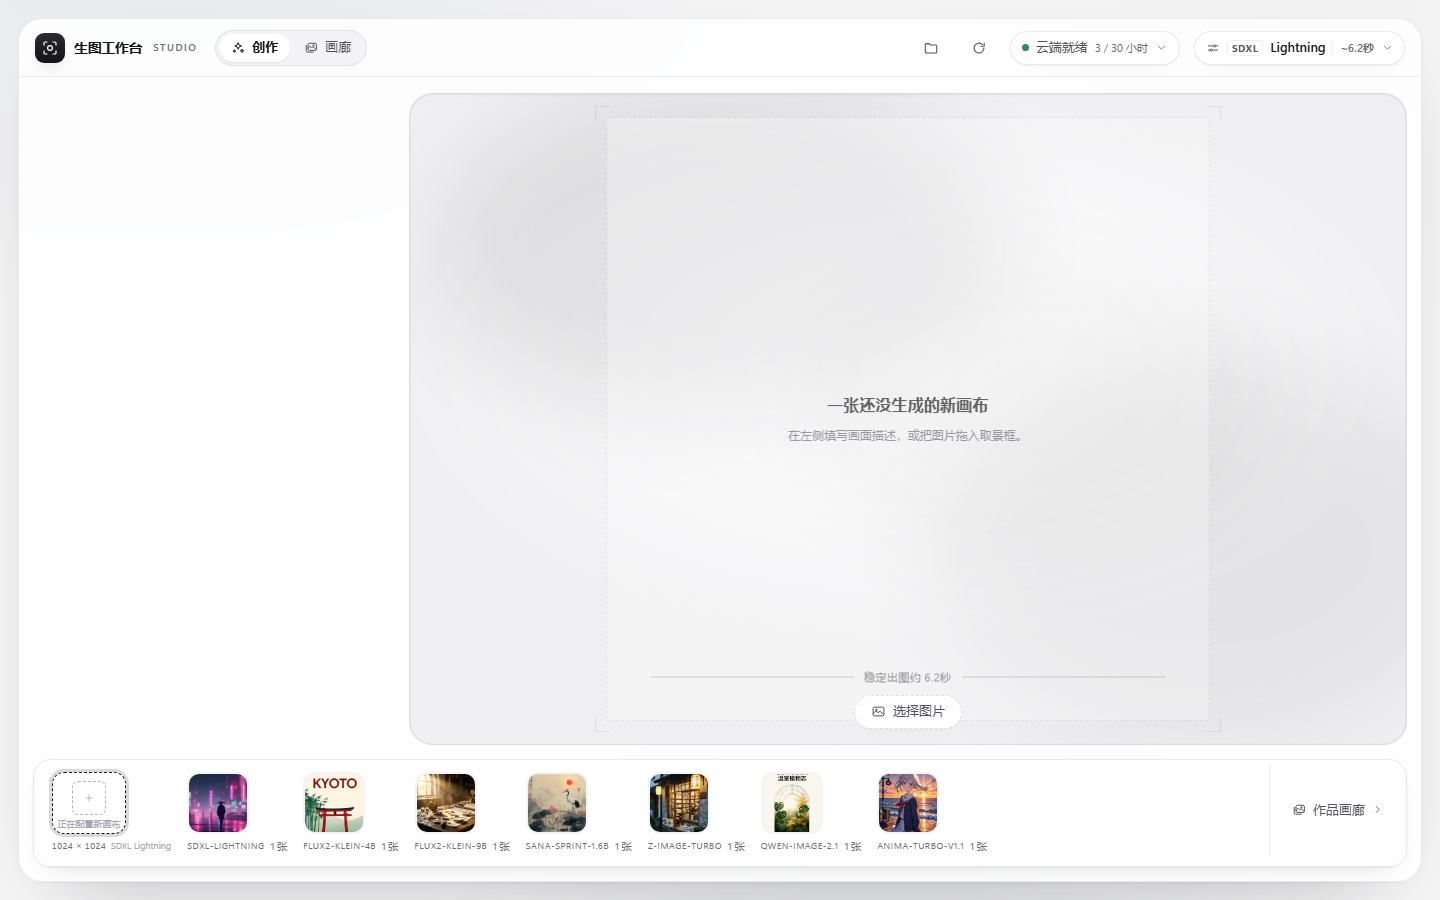
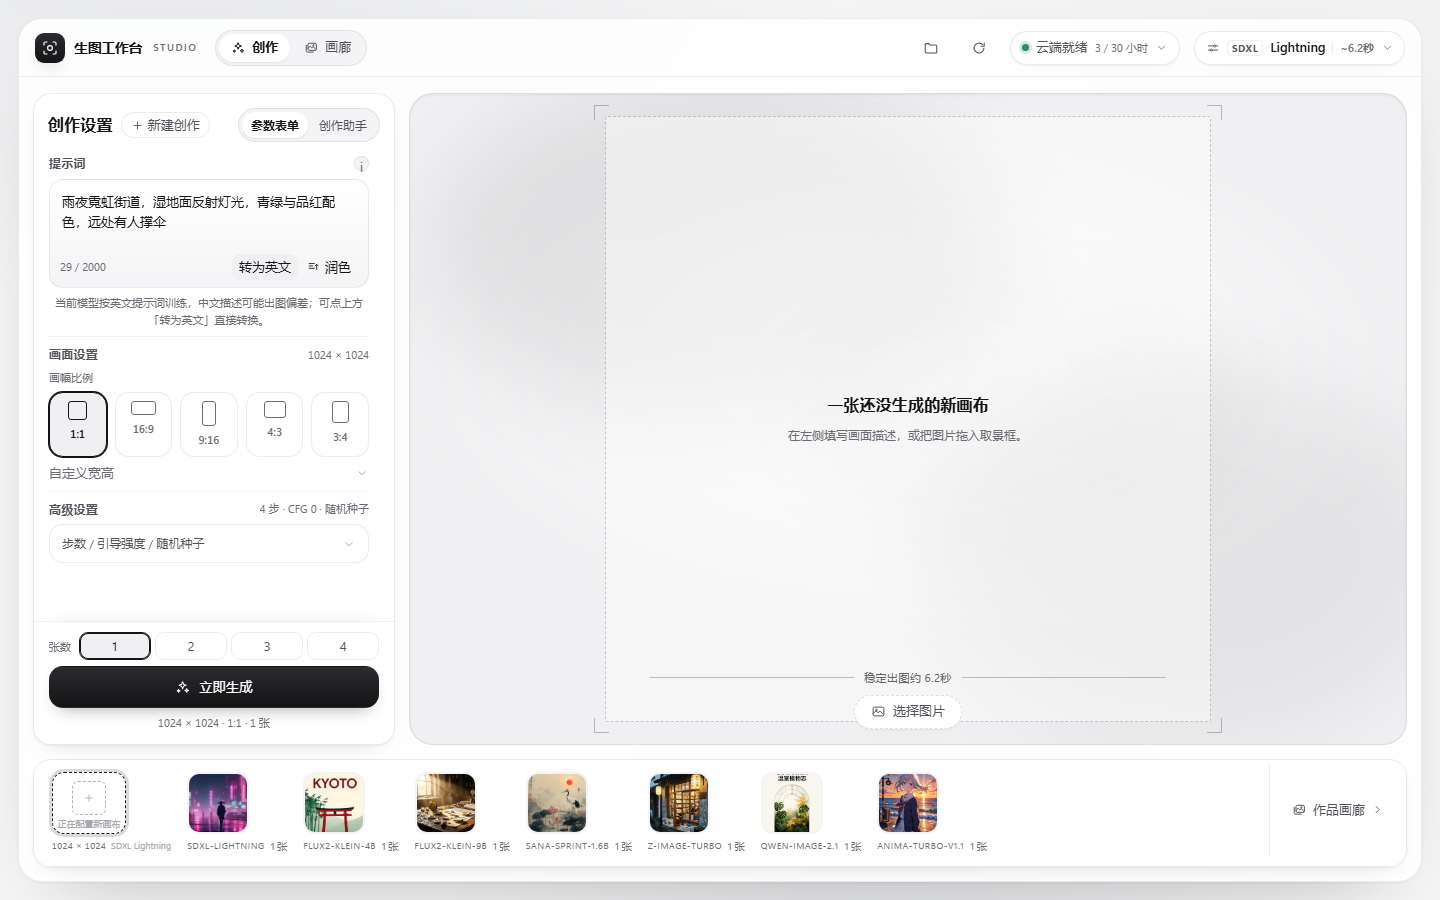
docs(readme): 优化排版并修复工作台预览截图左侧表单缺失

diff --git a/README.md b/README.md
@@ -11,7 +11,8 @@
 [![DeepSeek Harness](https://img.shields.io/badge/DSH-Plugin-0066FF?style=flat-square)](https://github.com/deepseek-ai/DeepSeek-Harness)
 [![License: MIT](https://img.shields.io/badge/License-MIT-black?style=flat-square)](LICENSE)
 [![GitHub Stars](https://img.shields.io/github/stars/nanxfu/dsh-our-imagen?style=flat-square)](https://github.com/nanxfu/dsh-our-imagen)
- <a href="https://linux.do/"><img src="https://img.shields.io/badge/LINUX%20DO-社区友链-555?style=flat-square" alt="LINUX DO" /></a>
+<a href="https://linux.do/"><img src="https://img.shields.io/badge/LINUX%20DO-社区友链-555?style=flat-square" alt="LINUX DO" /></a>
+
 > **当前处于 Preview 阶段**：默认内置 Kaggle 免费双卡 GPU 驱动，Colab 驱动已接入（大显存模型仅 Colab 可用），本地 GPU 与自建 Worker 支持在规划中。
 
 [快速上手](#三步上手) · [算力后端](#算力后端支持) · [核心功能](#核心功能) · [模型示例](#模型示例) · [常见问答](#常见问答) · [开发与测试](#开发与测试) · [English](README.en.md)
@@ -43,60 +44,35 @@
 
 ## 核心功能
 
-<table>
-<tr>
-<td width="48%">
-
 ### 1. 独立工作台
-* **内置 7 款现代开源模型**：极速与通用（`SDXL Lightning`、`SANA-Sprint 1.6B`、`Z-Image Turbo`）、参考与扩图（`FLUX.2 Klein 4B`、`FLUX.2 Klein 9B`、`Qwen-Image 2.1`）、二次元专项（`Anima Turbo v1.1`）；名称、架构与定位以 [`models/*.json`](models/) 为准。
-* **双算力来源**：`SDXL Lightning`、`SANA-Sprint 1.6B`、`FLUX.2 Klein 4B`、`Anima Turbo v1.1` 可在 Kaggle 免费 T4 与 Colab 运行；`Z-Image Turbo`、`Qwen-Image 2.1`、`FLUX.2 Klein 9B` 显存需求更高，仅 Colab 可用（模型卡标「仅 Colab」并置灰）。
-* **干净的参数面板**：提示词、画幅比例、分辨率、步数、引导强度和随机种子集中在一个面板里，生成张数（1~4）常驻页脚。
-* **只显示生效参数**：模型不消费负向词或默认引导强度为 0 时，排除项自动隐藏且不提交；参考图、局部重绘与扩图入口只在当前模型真正支持时出现。
-* **快捷词缀**：光影、材质、构图、氛围四类常用英文短语一键追加（界面显示中文标签），支持收起/展开。
-* **舞台图片工具**：选中作品后点下方的「局部涂抹 / 整图重绘」就地编辑，画布与提交栏内置修改描述、重绘强度与模型切换；画廊与大图的「以此图重绘」一步直达局部涂抹。高清放大（Real-ESRGAN ×2）与扩图（`FLUX.2 Klein 4B` + Outpaint LoRA）已接入，产物作为子版本归档。
-* **作品条与版本树**：底部作品条按版本树折叠，`⎇ N` 角标展开版本派生面板，涂抹 / 整图重绘产出的图自动成为 v2/v3 子版本；每张作品的未提交编辑草稿有圆点标记，切换作品不丢笔迹。支持一键带回全部参数或生成变体；画廊按日期归档，支持搜索、收藏、批量选择与单张删除。
 
-</td>
-<td width="52%">
+* **7 款模型与双算力来源**：内置 7 款现代开源模型（详见[模型列表](#常见问答)与 [`models/*.json`](models/)），其中 4 款可在 Kaggle 免费 T4 与 Colab 运行，`Z-Image Turbo`、`Qwen-Image 2.1`、`FLUX.2 Klein 9B` 因显存需求更高仅 Colab 可用。
+* **自适应参数面板**：提示词、画幅比例、分辨率、步数、引导强度与张数集中在一个面板；仅显示当前模型真正生效的参数与参考图入口，支持中译英及光影、材质、构图、氛围快捷词缀。
+* **舞台就地二创**：选中作品后可在舞台下方直接发起局部涂抹、整图重绘、高清放大（Real-ESRGAN ×2）或扩图，产物自动归档为子版本。
+* **版本树与作品画廊**：底部作品条按版本树折叠，保留各作品未提交编辑草稿；支持一键带回参数或生成变体，画廊按日期归档并支持搜索、收藏与批量管理。
 
 <div align="center">
-  <img src="docs/assets/studio-light.png" alt="生图工作台 独立界面" width="100%" />
+  <img src="docs/assets/studio-light.png" alt="生图工作台 独立界面" width="92%" />
   <p><sub>独立工作台：参数面板 + 实时画布 + 最近胶卷</sub></p>
 </div>
 
-</td>
-</tr>
-
-<tr>
-<td width="48%">
-
 ### 2. 对话生图与创作助手
-* **对话直接调用**：宿主自动挂载 `imagen_generate`、`imagen_batch`、`imagen_recipes`、`imagen_session`、`imagen_history` 等工具，在聊天窗口里直接说需求就能出图；一句话可以规划一组配图或分镜，配方库只提供可见的提示词模板，不做暗箱拼接。
+
+* **对话直接调用**：宿主自动挂载 `imagen_generate`、`imagen_batch`、`imagen_recipes`、`imagen_session`、`imagen_history` 等工具，在聊天窗口里直接说需求就能出图或规划一组分镜配图；配方库只提供可见提示词模板，不做暗箱拼接。
 * **先确认再执行**：内置助手会把自然语言翻译成英文提示词、推断比例并检查当前模型的参数限制，先给出确认卡片，点确定后再跑。
 * **模型适配提醒**：助手了解 7 款模型的提示词习惯与专长，如果当前模型不太适合你的描述，会给出提示。
 * **工作台联动**：确认卡可以一键带入参数面板继续精调；聊天里生成的图片也可以直接在工作台里打开做二次编辑。
 
-</td>
-<td width="52%">
-
 <div align="center">
-  <img src="docs/assets/chat-tool.png" alt="对话卡片与生图预览" width="100%" />
+  <img src="docs/assets/chat-tool.png" alt="对话卡片与生图预览" width="92%" />
   <p><sub>对话卡片：先给确认卡，点确定即出图</sub></p>
 </div>
 
-</td>
-</tr>
-
-<tr>
-<td width="48%">
-
 ### 3. 本地落盘与自动保活
+
 * **图片只存本地**：生成结果通过单次随机 Bearer Token 隧道直接写入本地 `imagen-output/`，不经过第三方公共图床。
 * **空闲自动关机**：云端 Kernel 空闲超过 30 分钟（可在设置中调整）自动关机，也可以在右上角随时手动关机，避免白白消耗额度。
 * **断线重连**：本地 `.imagen/session.json` 会记录当前会话状态，DSH 重启或刷新后会自动探活并接管旧实例，不会重复开机。
-
-</td>
-<td width="52%">
 
 ```text
 [ DSH 工作台 / 聊天窗口 ]
@@ -111,9 +87,6 @@
           └─────────────────────────────▶ (直接回传本地)
 ```
 
-</td>
-</tr>
-</table>
 ---
 
 ## 界面速览
@@ -148,27 +121,43 @@
 
 <table>
 <tr>
-<td width="33.3%">
+<td width="50%">
 <div align="center">
   <img src="docs/assets/showcase/sdxl-lightning-cyberpunk-street.webp" alt="SDXL Lightning 生成的雨夜霓虹街道" width="100%" />
-  <p><sub>SDXL Lightning · 雨夜霓虹街道 · 约 9.8 秒</sub></p>
+  <p><sub>SDXL Lightning · 雨夜霓虹街道 · Kaggle 2×T4 · 约 9.8 秒</sub></p>
 </div>
 </td>
-<td width="33.3%">
+<td width="50%">
+<div align="center">
+  <img src="docs/assets/showcase/flux2-klein-4b-kyoto-poster.webp" alt="FLUX.2 Klein 4B 生成的极简京都旅行海报" width="100%" />
+  <p><sub>FLUX.2 Klein 4B · 极简京都旅行海报 · Kaggle 2×T4 · 约 6.8 秒</sub></p>
+</div>
+</td>
+</tr>
+<tr>
+<td width="50%">
+<div align="center">
+  <img src="docs/assets/showcase/flux2-klein-9b-clockmaker-bench.webp" alt="FLUX.2 Klein 9B 生成的黄金时刻钟表匠工作台" width="100%" />
+  <p><sub>FLUX.2 Klein 9B · 黄金时刻钟表匠工作台 · Colab L4 · 113.1 秒</sub></p>
+</div>
+</td>
+<td width="50%">
 <div align="center">
   <img src="docs/assets/showcase/sana-sprint-1.6b-crane-pond.webp" alt="SANA-Sprint 1.6B 生成的红冠鹤与晨间荷塘" width="100%" />
   <p><sub>SANA-Sprint 1.6B · 红冠鹤与晨间荷塘 · Colab L4 · 4.07 秒</sub></p>
 </div>
 </td>
+</tr>
+</table>
+
+<table>
+<tr>
 <td width="33.3%">
 <div align="center">
   <img src="docs/assets/showcase/z-image-turbo-alley-bookstore.webp" alt="Z-Image Turbo 生成的雨巷旧书店" width="100%" />
   <p><sub>Z-Image Turbo · 雨巷旧书店 · Colab L4 · 29.19 秒</sub></p>
 </div>
 </td>
-</tr>
-
-<tr>
 <td width="33.3%">
 <div align="center">
   <img src="docs/assets/showcase/qwen-image-2.1-botanica-poster.webp" alt="Qwen-Image 2.1 生成的温室植物志海报" width="100%" />
@@ -177,29 +166,10 @@
 </td>
 <td width="33.3%">
 <div align="center">
-  <img src="docs/assets/showcase/flux2-klein-4b-kyoto-poster.webp" alt="FLUX.2 Klein 4B 生成的极简京都旅行海报" width="100%" />
-  <p><sub>FLUX.2 Klein 4B · 极简京都旅行海报 · Kaggle 2×T4 · 约 6.8 秒</sub></p>
-</div>
-</td>
-<td width="33.3%">
-<div align="center">
-  <img src="docs/assets/showcase/flux2-klein-9b-clockmaker-bench.webp" alt="FLUX.2 Klein 9B 生成的黄金时刻钟表匠工作台" width="100%" />
-  <p><sub>FLUX.2 Klein 9B · 黄金时刻钟表匠工作台 · Colab L4 · 113.1 秒</sub></p>
-</div>
-</td>
-</tr>
-</table>
-
-<table>
-<tr>
-<td width="33.3%"></td>
-<td width="33.3%">
-<div align="center">
   <img src="docs/assets/showcase/anima-turbo-v1.1-seaside-station.webp" alt="Anima Turbo v1.1 生成的黄昏海边站台少女" width="100%" />
   <p><sub>Anima Turbo v1.1 · 黄昏海边站台少女 · Colab L4 · 9.81 秒</sub></p>
 </div>
 </td>
-<td width="33.3%"></td>
 </tr>
 </table>
 

diff --git a/README.en.md b/README.en.md
@@ -41,60 +41,35 @@ Not every machine has a high-VRAM GPU, and setting up PyTorch, CUDA, and ComfyUI
 
 ## Features
 
-<table>
-<tr>
-<td width="48%">
-
 ### 1. Standalone Workbench
-* **7 Modern Open-Source Models**: fast and general (`SDXL Lightning`, `SANA-Sprint 1.6B`, `Z-Image Turbo`), reference and outpaint (`FLUX.2 Klein 4B`, `FLUX.2 Klein 9B`, `Qwen-Image 2.1`), and anime (`Anima Turbo v1.1`); names, architectures, and positioning come from [`models/*.json`](models/).
-* **Two Compute Sources**: `SDXL Lightning`, `SANA-Sprint 1.6B`, `FLUX.2 Klein 4B`, and `Anima Turbo v1.1` run on both Kaggle's free T4 quota and Colab. `Z-Image Turbo`, `Qwen-Image 2.1`, and `FLUX.2 Klein 9B` need more VRAM and are Colab-only (their model cards are marked "Colab only" and disabled on Kaggle).
-* **Focused Controls**: Prompt, aspect ratio, resolution, steps, CFG scale, and seed in one panel, with batch count (1–4) pinned in the footer.
-* **Effective Parameters Only**: Negative prompts are hidden and omitted when the selected model ignores them or defaults to CFG 0; reference images, local repaint, and outpaint entry points only appear when the current model really supports them.
-* **Quick Modifiers**: Collapsible one-click English tags for lighting, material, composition, and mood (with localized UI labels).
-* **Stage Image Tools**: With a work selected, hit **Local paint** or **Full repaint** below the stage to edit in place; the canvas and light submit bar include a change description, repaint strength, and model switch. "Repaint from this image" in the gallery/lightbox opens local paint in one step. Upscale (Real-ESRGAN ×2) and outpaint (`FLUX.2 Klein 4B` + Outpaint LoRA) are available and saved as child versions.
-* **Filmstrip & Version Tree**: The bottom filmstrip folds by version tree; the `⎇ N` badge opens the version panel, and paint/repaint outputs automatically become v2/v3 child versions. Unsubmitted edits are marked with a dot per work and survive work switching. Restore all parameters or generate variations in one click, and manage your date-grouped gallery with search, favorites, batch selection, and single-image deletion.
 
-</td>
-<td width="52%">
+* **7 Models & Dual Compute**: Includes 7 modern open-source models (see [FAQ](#faq) and [`models/*.json`](models/)). Four run on both Kaggle's free T4 quota and Colab, while `Z-Image Turbo`, `Qwen-Image 2.1`, and `FLUX.2 Klein 9B` require Colab for higher VRAM.
+* **Adaptive Parameter Panel**: Prompt, aspect ratio, resolution, steps, CFG scale, and batch count in one focused panel—only showing parameters and reference inputs supported by the active model, with one-click English translation and quick modifiers.
+* **In-Place Stage Tools**: Select any work to run local paint, full repaint, ×2 upscale (Real-ESRGAN), or outpaint right on the stage, automatically archived as child versions.
+* **Version Tree & Gallery**: The bottom filmstrip folds by derivation tree and preserves unsubmitted drafts per work; the gallery groups by date with search, favorites, and batch management.
 
 <div align="center">
-  <img src="docs/assets/studio-light.png" alt="Image Studio Workbench" width="100%" />
+  <img src="docs/assets/studio-light.png" alt="Image Studio Workbench" width="92%" />
   <p><sub>Standalone workbench: parameter panel, live canvas, and recent filmstrip</sub></p>
 </div>
 
-</td>
-</tr>
-
-<tr>
-<td width="48%">
-
 ### 2. Chat Integration & Assistant
+
 * **Direct Tool Calls**: Registers `imagen_generate`, `imagen_batch`, `imagen_recipes`, `imagen_session`, `imagen_history`, and `imagen_cancel`, so you can generate images directly from chat. `imagen_batch` plans a whole set of images in one call, and `imagen_recipes` only returns visible prompt templates — no hidden style suffixes.
 * **Confirm Before Running**: Translates natural-language requests into English prompts, infers aspect ratios, checks model constraints, and shows a confirmation card before starting inference.
 * **Model Awareness**: Understands prompt conventions and strengths across all 7 models and suggests a better match when appropriate.
 * **Workbench Sync**: Load confirmation cards into the workbench for fine-tuning, or open chat-generated images in the workbench for further editing.
 
-</td>
-<td width="52%">
-
 <div align="center">
-  <img src="docs/assets/chat-tool.png" alt="Chat Confirmation Card and Preview" width="100%" />
+  <img src="docs/assets/chat-tool.png" alt="Chat Confirmation Card and Preview" width="92%" />
   <p><sub>Chat card: confirm parameters first, then generate directly to local disk</sub></p>
 </div>
 
-</td>
-</tr>
-
-<tr>
-<td width="48%">
-
 ### 3. Local Storage & Session Management
+
 * **Local-Only Storage**: Generated images stream back over a per-session Bearer Token tunnel and are written directly to `imagen-output/`, without third-party image hosts.
 * **Idle Auto-Shutdown**: The remote kernel shuts down automatically after 30 minutes of inactivity (configurable), or anytime from the top-right controls.
 * **Session Recovery**: `.imagen/session.json` tracks the active session so DSH restarts or page refreshes reconnect to the existing instance instead of starting a duplicate one.
-
-</td>
-<td width="52%">
 
 ```text
 [ DSH Workbench / Chat ]
@@ -108,10 +83,6 @@ Not every machine has a high-VRAM GPU, and setting up PyTorch, CUDA, and ComfyUI
           │  One-time Bearer Token tunnel
           └─────────────────────────────────▶ (streamed back locally)
 ```
-
-</td>
-</tr>
-</table>
 
 ---
 
@@ -146,27 +117,43 @@ All 7 samples below were generated by this plugin on real GPUs and converted to 
 
 <table>
 <tr>
-<td width="33.3%">
+<td width="50%">
 <div align="center">
   <img src="docs/assets/showcase/sdxl-lightning-cyberpunk-street.webp" alt="SDXL Lightning neon street" width="100%" />
   <p><sub>SDXL Lightning · Rainy Neon Street · Kaggle 2×T4 · ~9.8s</sub></p>
 </div>
 </td>
-<td width="33.3%">
+<td width="50%">
+<div align="center">
+  <img src="docs/assets/showcase/flux2-klein-4b-kyoto-poster.webp" alt="FLUX.2 Klein 4B Kyoto poster" width="100%" />
+  <p><sub>FLUX.2 Klein 4B · Minimalist Kyoto Poster · Kaggle 2×T4 · ~6.8s</sub></p>
+</div>
+</td>
+</tr>
+<tr>
+<td width="50%">
+<div align="center">
+  <img src="docs/assets/showcase/flux2-klein-9b-clockmaker-bench.webp" alt="FLUX.2 Klein 9B clockmaker workbench" width="100%" />
+  <p><sub>FLUX.2 Klein 9B · Clockmaker Workbench · Colab L4 · 113.1s</sub></p>
+</div>
+</td>
+<td width="50%">
 <div align="center">
   <img src="docs/assets/showcase/sana-sprint-1.6b-crane-pond.webp" alt="SANA-Sprint 1.6B crane in a lotus pond" width="100%" />
   <p><sub>SANA-Sprint 1.6B · Crane in a Lotus Pond · Colab L4 · 4.07s</sub></p>
 </div>
 </td>
+</tr>
+</table>
+
+<table>
+<tr>
 <td width="33.3%">
 <div align="center">
   <img src="docs/assets/showcase/z-image-turbo-alley-bookstore.webp" alt="Z-Image Turbo rainy alley bookstore" width="100%" />
   <p><sub>Z-Image Turbo · Rainy Alley Bookstore · Colab L4 · 29.19s</sub></p>
 </div>
 </td>
-</tr>
-
-<tr>
 <td width="33.3%">
 <div align="center">
   <img src="docs/assets/showcase/qwen-image-2.1-botanica-poster.webp" alt="Qwen-Image 2.1 Botanica conservatory poster" width="100%" />
@@ -175,29 +162,10 @@ All 7 samples below were generated by this plugin on real GPUs and converted to 
 </td>
 <td width="33.3%">
 <div align="center">
-  <img src="docs/assets/showcase/flux2-klein-4b-kyoto-poster.webp" alt="FLUX.2 Klein 4B Kyoto poster" width="100%" />
-  <p><sub>FLUX.2 Klein 4B · Minimalist Kyoto Poster · Kaggle 2×T4 · ~6.8s</sub></p>
-</div>
-</td>
-<td width="33.3%">
-<div align="center">
-  <img src="docs/assets/showcase/flux2-klein-9b-clockmaker-bench.webp" alt="FLUX.2 Klein 9B clockmaker workbench" width="100%" />
-  <p><sub>FLUX.2 Klein 9B · Clockmaker Workbench · Colab L4 · 113.1s</sub></p>
-</div>
-</td>
-</tr>
-</table>
-
-<table>
-<tr>
-<td width="33.3%"></td>
-<td width="33.3%">
-<div align="center">
   <img src="docs/assets/showcase/anima-turbo-v1.1-seaside-station.webp" alt="Anima Turbo v1.1 girl at seaside station" width="100%" />
   <p><sub>Anima Turbo v1.1 · Girl at Seaside Station · Colab L4 · 9.81s</sub></p>
 </div>
 </td>
-<td width="33.3%"></td>
 </tr>
 </table>
 
